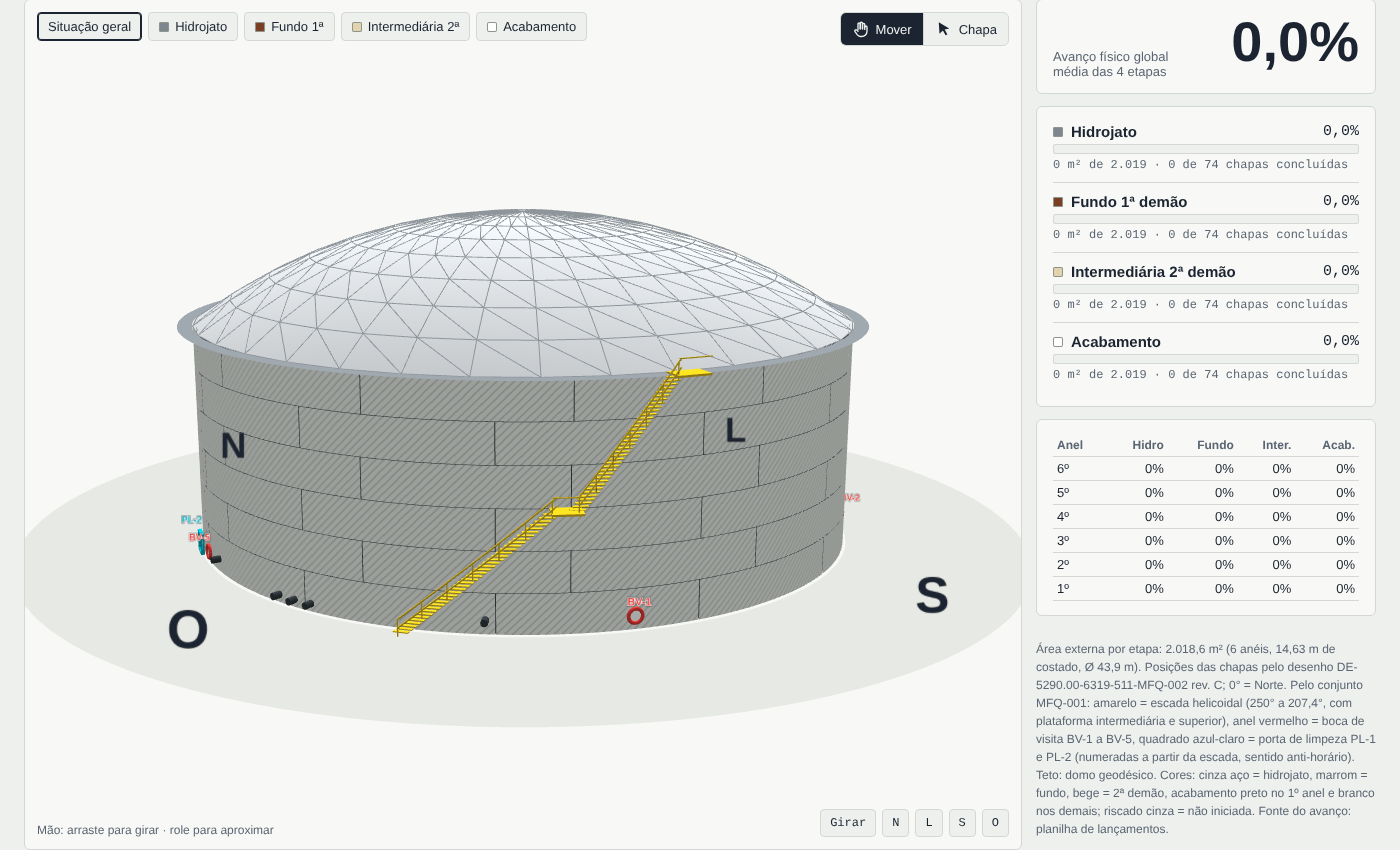
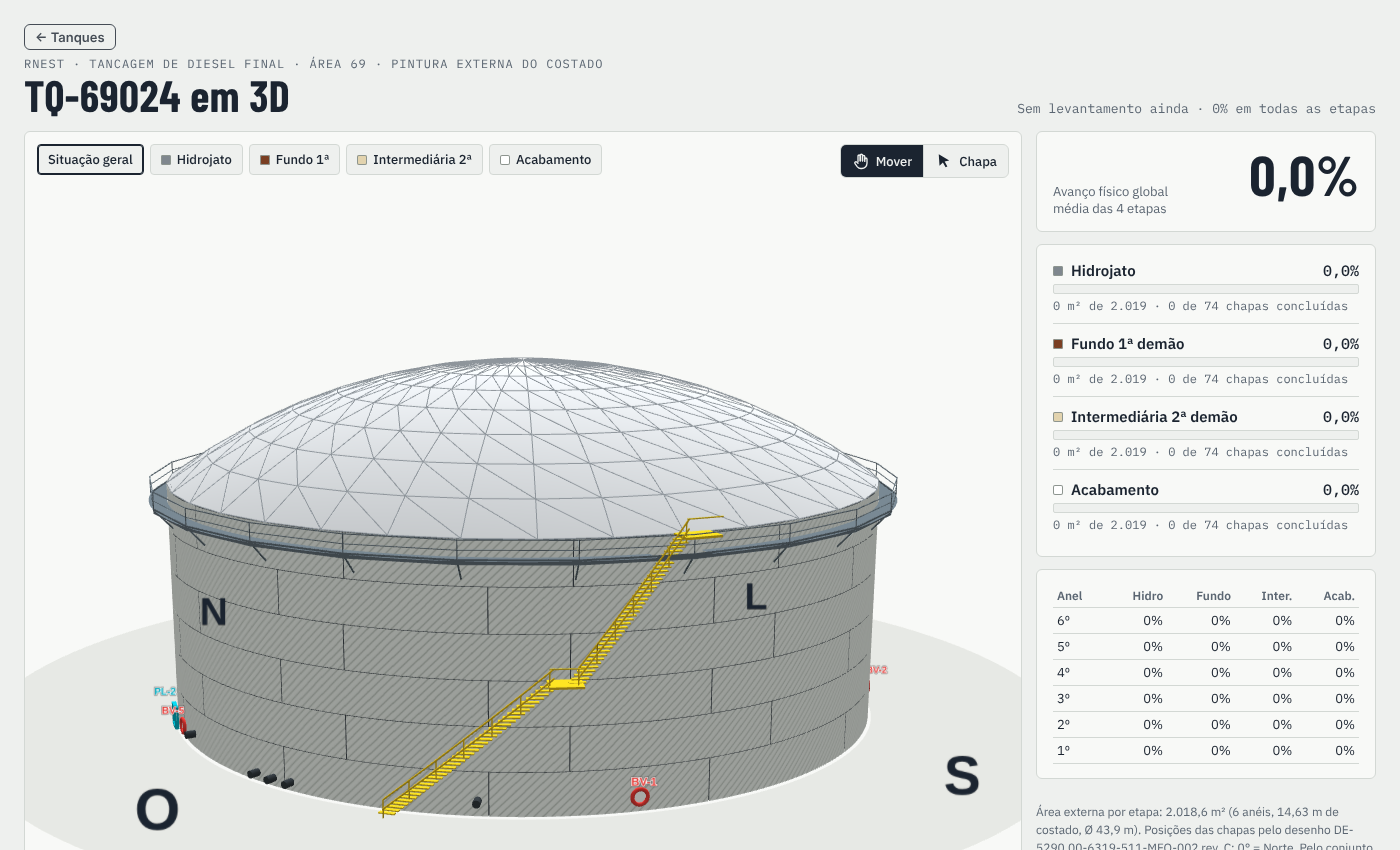
TQ-69024: anel de contraventamento (MFQ-024 rev. D) no 3D
Claude-Session: https://claude.ai/code/session_01NXxnoSMqC6abtstYf4wBG2

diff --git a/tanques/TQ-69024.html b/tanques/TQ-69024.html
@@ -105,7 +105,7 @@ aside{display:flex;flex-direction:column;gap:12px;min-width:0}
     <div class="card">
       <table class="rings" id="rings"><thead><tr><th>Anel</th><th>Hidro</th><th>Fundo</th><th>Inter.</th><th>Acab.</th></tr></thead><tbody></tbody></table>
     </div>
-    <p class="foot">Área externa por etapa: 2.018,6 m² (6 anéis, 14,63 m de costado, Ø 43,9 m). Posições das chapas pelo desenho DE-5290.00-6319-511-MFQ-002 rev. C; 0° = Norte. Pelo conjunto MFQ-001: amarelo = escada helicoidal (250° a 207,4°, com plataforma intermediária e superior), anel vermelho = boca de visita BV-1 a BV-5, quadrado azul-claro = porta de limpeza PL-1 e PL-2 (numeradas a partir da escada, sentido anti-horário). Teto: domo geodésico. Cores: cinza aço = hidrojato, marrom = fundo, bege = 2ª demão, acabamento preto no 1º anel e branco nos demais; riscado cinza = não iniciada. Fonte do avanço: planilha de lançamentos.</p>
+    <p class="foot">Área externa por etapa: 2.018,6 m² (6 anéis, 14,63 m de costado, Ø 43,9 m). Posições das chapas pelo desenho DE-5290.00-6319-511-MFQ-002 rev. C; 0° = Norte. Pelo conjunto MFQ-001: amarelo = escada helicoidal (250° a 207,4°, com plataforma intermediária e superior), anel vermelho = boca de visita BV-1 a BV-5, quadrado azul-claro = porta de limpeza PL-1 e PL-2 (numeradas a partir da escada, sentido anti-horário). Cinza-escuro = anel de contraventamento a EL +13,716 (DE-5290.00-6319-511-MFQ-024 rev. D), com abertura para a escada. Teto: domo geodésico. Cores: cinza aço = hidrojato, marrom = fundo, bege = 2ª demão, acabamento preto no 1º anel e branco nos demais; riscado cinza = não iniciada. Fonte do avanço: planilha de lançamentos.</p>
   </aside>
 </div>
 </div>
@@ -1218,8 +1218,28 @@ roof.position.y=TOP+DH-RS;scene.add(roof);
 const domeW=new THREE.LineSegments(new THREE.WireframeGeometry(new THREE.SphereGeometry(RS+0.02,36,8,0,Math.PI*2,0,TH0)),new THREE.LineBasicMaterial({color:0x8E959B}));
 domeW.position.y=roof.position.y;scene.add(domeW);
 // passadiço/anel de contraventamento no topo do costado
-const girder=new THREE.Mesh(new THREE.RingGeometry(R+0.05,R+1.0,128),new THREE.MeshLambertMaterial({color:0x7d8388,side:THREE.DoubleSide}));
-girder.rotation.x=-Math.PI/2;girder.position.y=TOP+0.02;scene.add(girder);
+// anel de contraventamento (DE-5290.00-6319-511-MFQ-024 rev. D): piso a EL +13,716, largura ~1,06 m,
+// módulos poligonais de 6 m, mãos-francesas a 45° nas juntas, abertura da escada (módulo AA) ~204°-219°
+(function girderRing(){const EL=13.716,Ri=R+0.03,Ro=R+1.10,STEP=15,OPEN=[208,216];
+  const mat=new THREE.MeshLambertMaterial({color:0x5E6A73,side:THREE.DoubleSide});
+  const P=(b,r,y)=>new THREE.Vector3(r*Math.sin(b*Math.PI/180),y,-r*Math.cos(b*Math.PI/180));
+  const inOpen=b=>b>OPEN[0]&&b<OPEN[1];
+  for(let b0=0;b0<360;b0+=STEP){const b1=b0+STEP;
+    // piso: subdivide para recortar a abertura da escada
+    const n=6;for(let k=0;k<n;k++){const a0=b0+STEP*k/n,a1=b0+STEP*(k+1)/n;if(inOpen((a0+a1)/2))continue;
+      const g=new THREE.BufferGeometry(),v=[P(a0,Ri,EL),P(a1,Ri,EL),P(a1,Ro,EL),P(a0,Ro,EL)];
+      g.setFromPoints([v[0],v[1],v[2],v[0],v[2],v[3]]);g.computeVertexNormals();scene.add(new THREE.Mesh(g,mat));}
+    // rodapé/aba externa (vertical) e guarda-corpo 1,06 m
+    const e0=P(b0,Ro,0),e1=P(b1,Ro,0),len=e0.distanceTo(e1),mid=P((b0+b1)/2,Ro*Math.cos(STEP/2*Math.PI/180),0);
+    const web=new THREE.Mesh(new THREE.BoxGeometry(len,0.30,0.03),mat);web.position.set(mid.x,EL-0.05,mid.z);web.lookAt(0,web.position.y,0);scene.add(web);
+    const rail=new THREE.Mesh(new THREE.BoxGeometry(len,0.05,0.05),mat);rail.position.set(mid.x,EL+1.06,mid.z);rail.lookAt(0,rail.position.y,0);scene.add(rail);
+    const mr=new THREE.Mesh(new THREE.BoxGeometry(len,0.04,0.04),mat);mr.position.set(mid.x,EL+0.55,mid.z);mr.lookAt(0,mr.position.y,0);scene.add(mr);
+    const post=new THREE.Mesh(new THREE.CylinderGeometry(0.03,0.03,1.06,6),mat);const pp=P(b0,Ro,0);post.position.set(pp.x,EL+0.53,pp.z);scene.add(post);
+    // mão-francesa a 45°: do costado ~1,14 m abaixo do piso até a borda externa
+    const a=P(b0,Ri,EL-1.14),c=P(b0,Ro-0.05,EL-0.05),br=new THREE.Mesh(new THREE.CylinderGeometry(0.05,0.05,a.distanceTo(c),6),mat);
+    br.position.copy(a.clone().add(c).multiplyScalar(0.5));br.quaternion.setFromUnitVectors(new THREE.Vector3(0,1,0),c.clone().sub(a).normalize());scene.add(br);
+  }
+})();
 const ground=new THREE.Mesh(new THREE.RingGeometry(R+0.2,R+12,128),new THREE.MeshLambertMaterial({color:0x9a9d97,transparent:true,opacity:0.35}));
 ground.rotation.x=-Math.PI/2;ground.position.y=-0.05;scene.add(ground);
 
